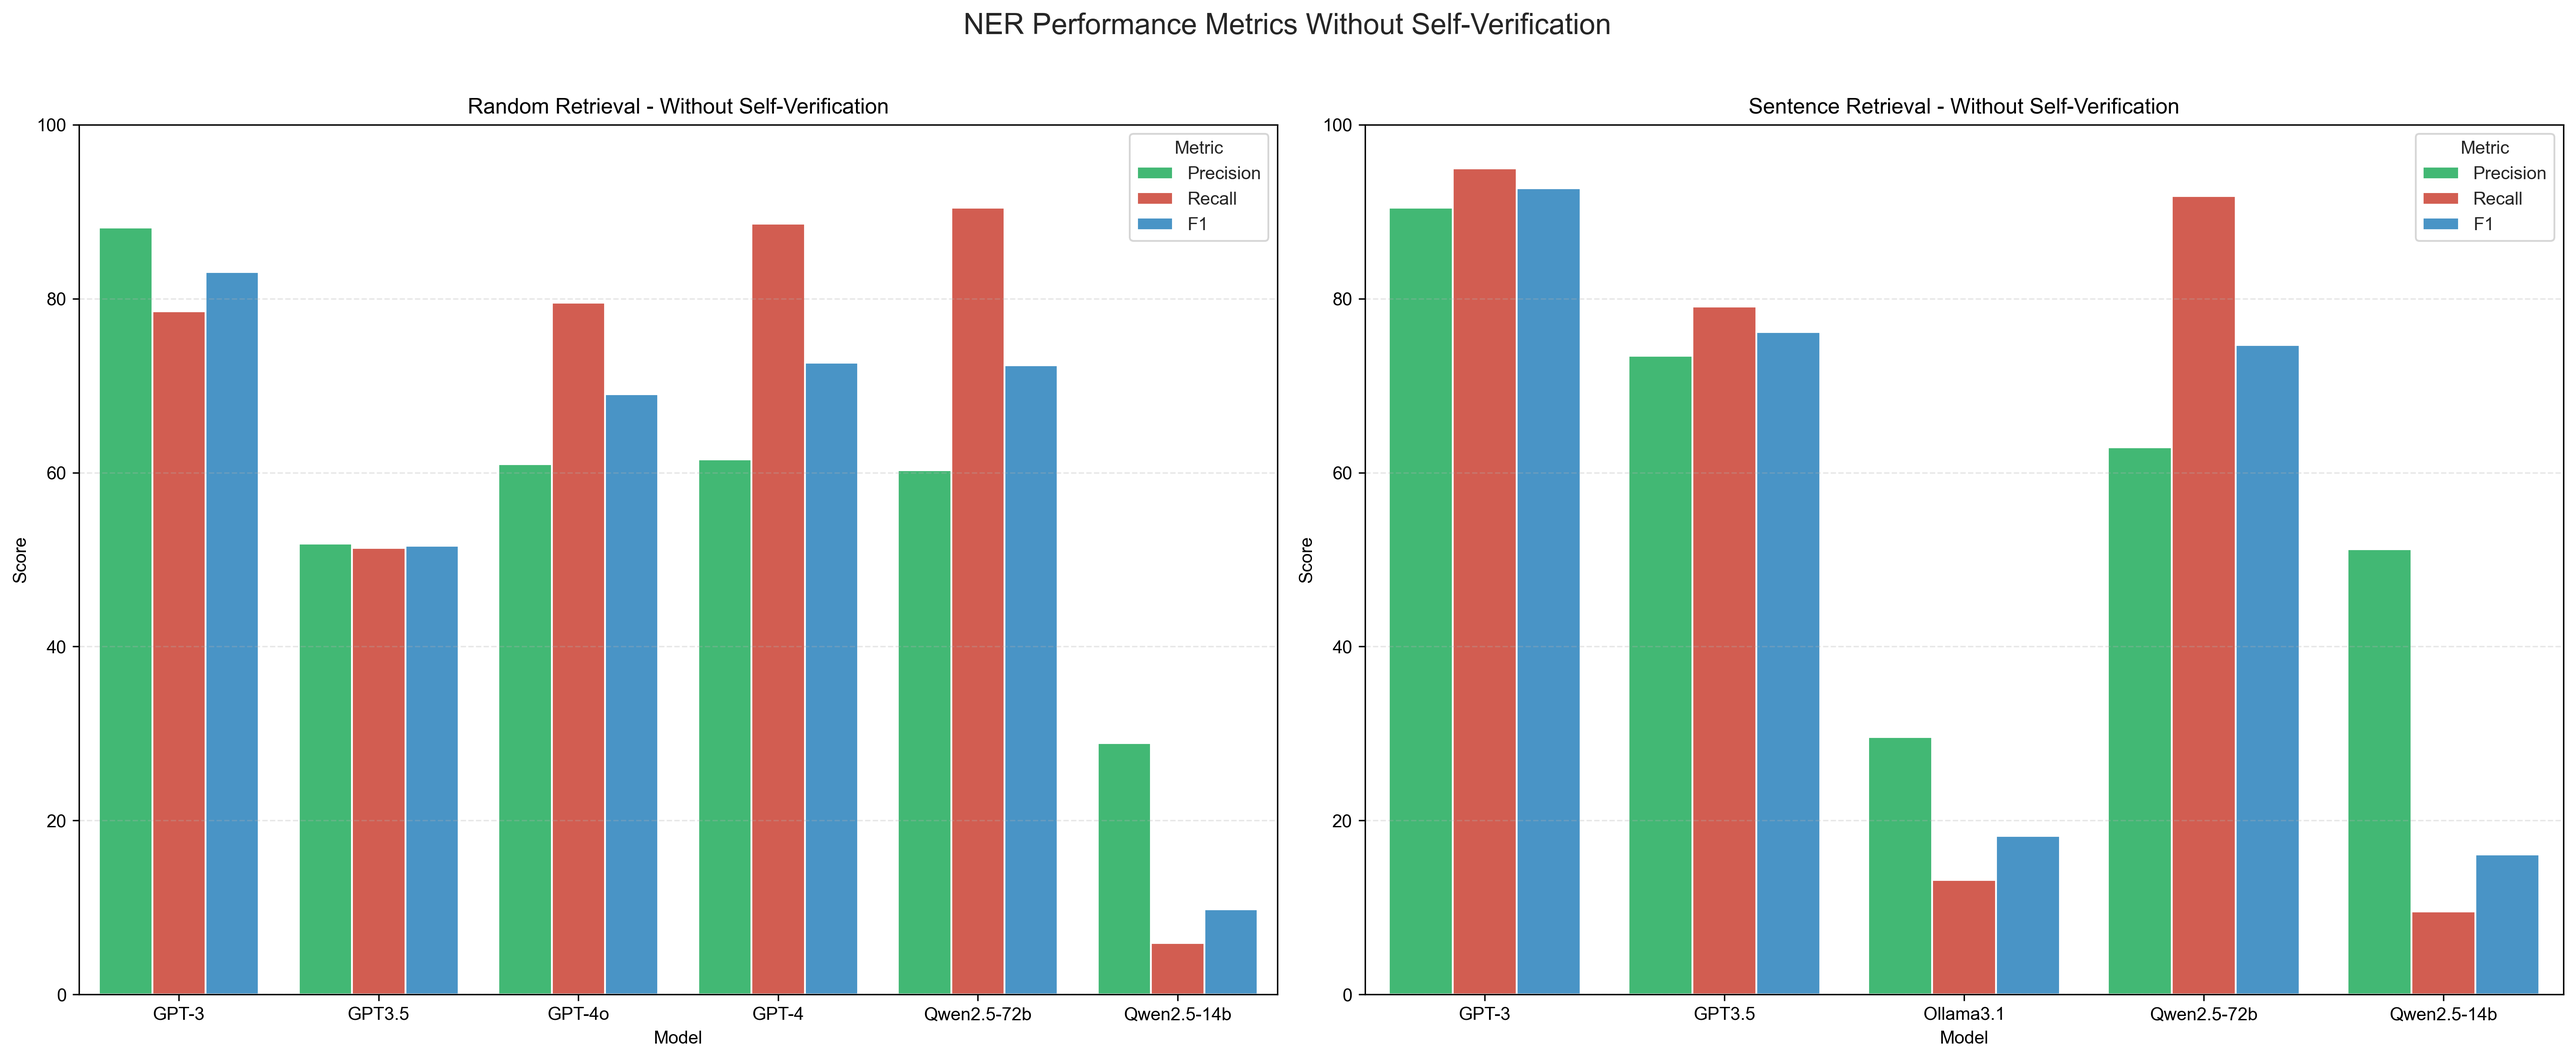
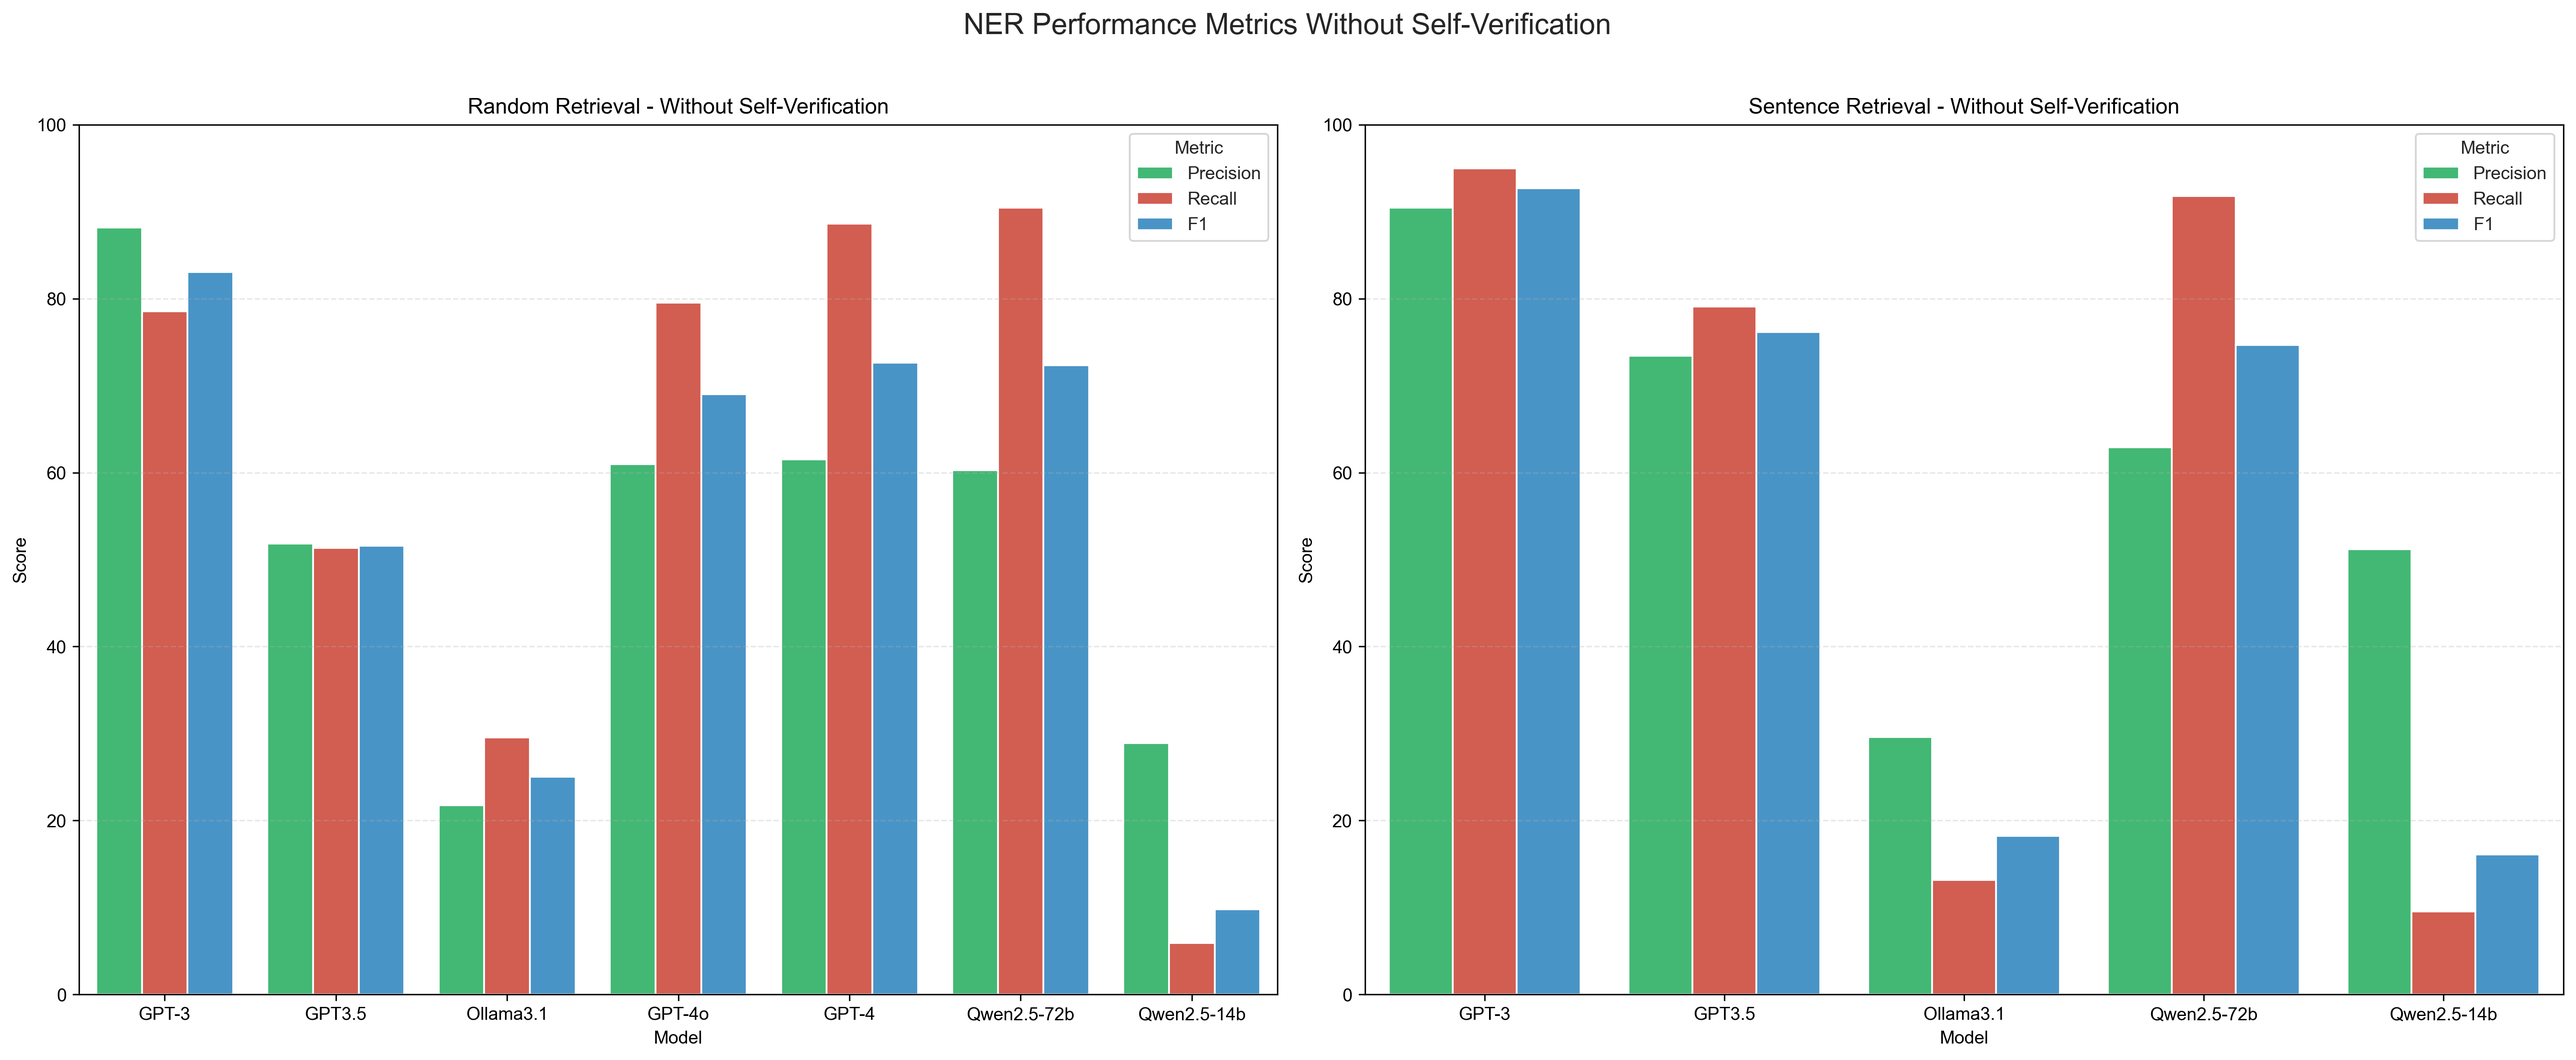
updated measurements

Changed region(s): [[0.0312, 0.1857, 0.4989, 0.9597]]

diff --git a/results/plot.py b/results/plot.py
@@ -9,7 +9,7 @@ RESULTS = {
         'without_verification': {
             'GPT-3': {'Precision': 88.18, 'Recall': 78.54, 'F1': 83.08},
             'GPT3.5': {'Precision': 51.83, 'Recall': 51.36, 'F1': 51.6},
-            #'Ollama3.1': {'Precision': 21.74, 'Recall': 29.55, 'F1': 25.05},
+            'Ollama3.1': {'Precision': 21.74, 'Recall': 29.55, 'F1': 25.05},
             'GPT-4o': {'Precision': 60.98, 'Recall': 79.55, 'F1': 69.03},
             'GPT-4': {'Precision': 61.51, 'Recall': 88.64, 'F1': 72.63},
             'Qwen2.5-72b': {'Precision': 60.3, 'Recall': 90.45, 'F1': 72.36},
